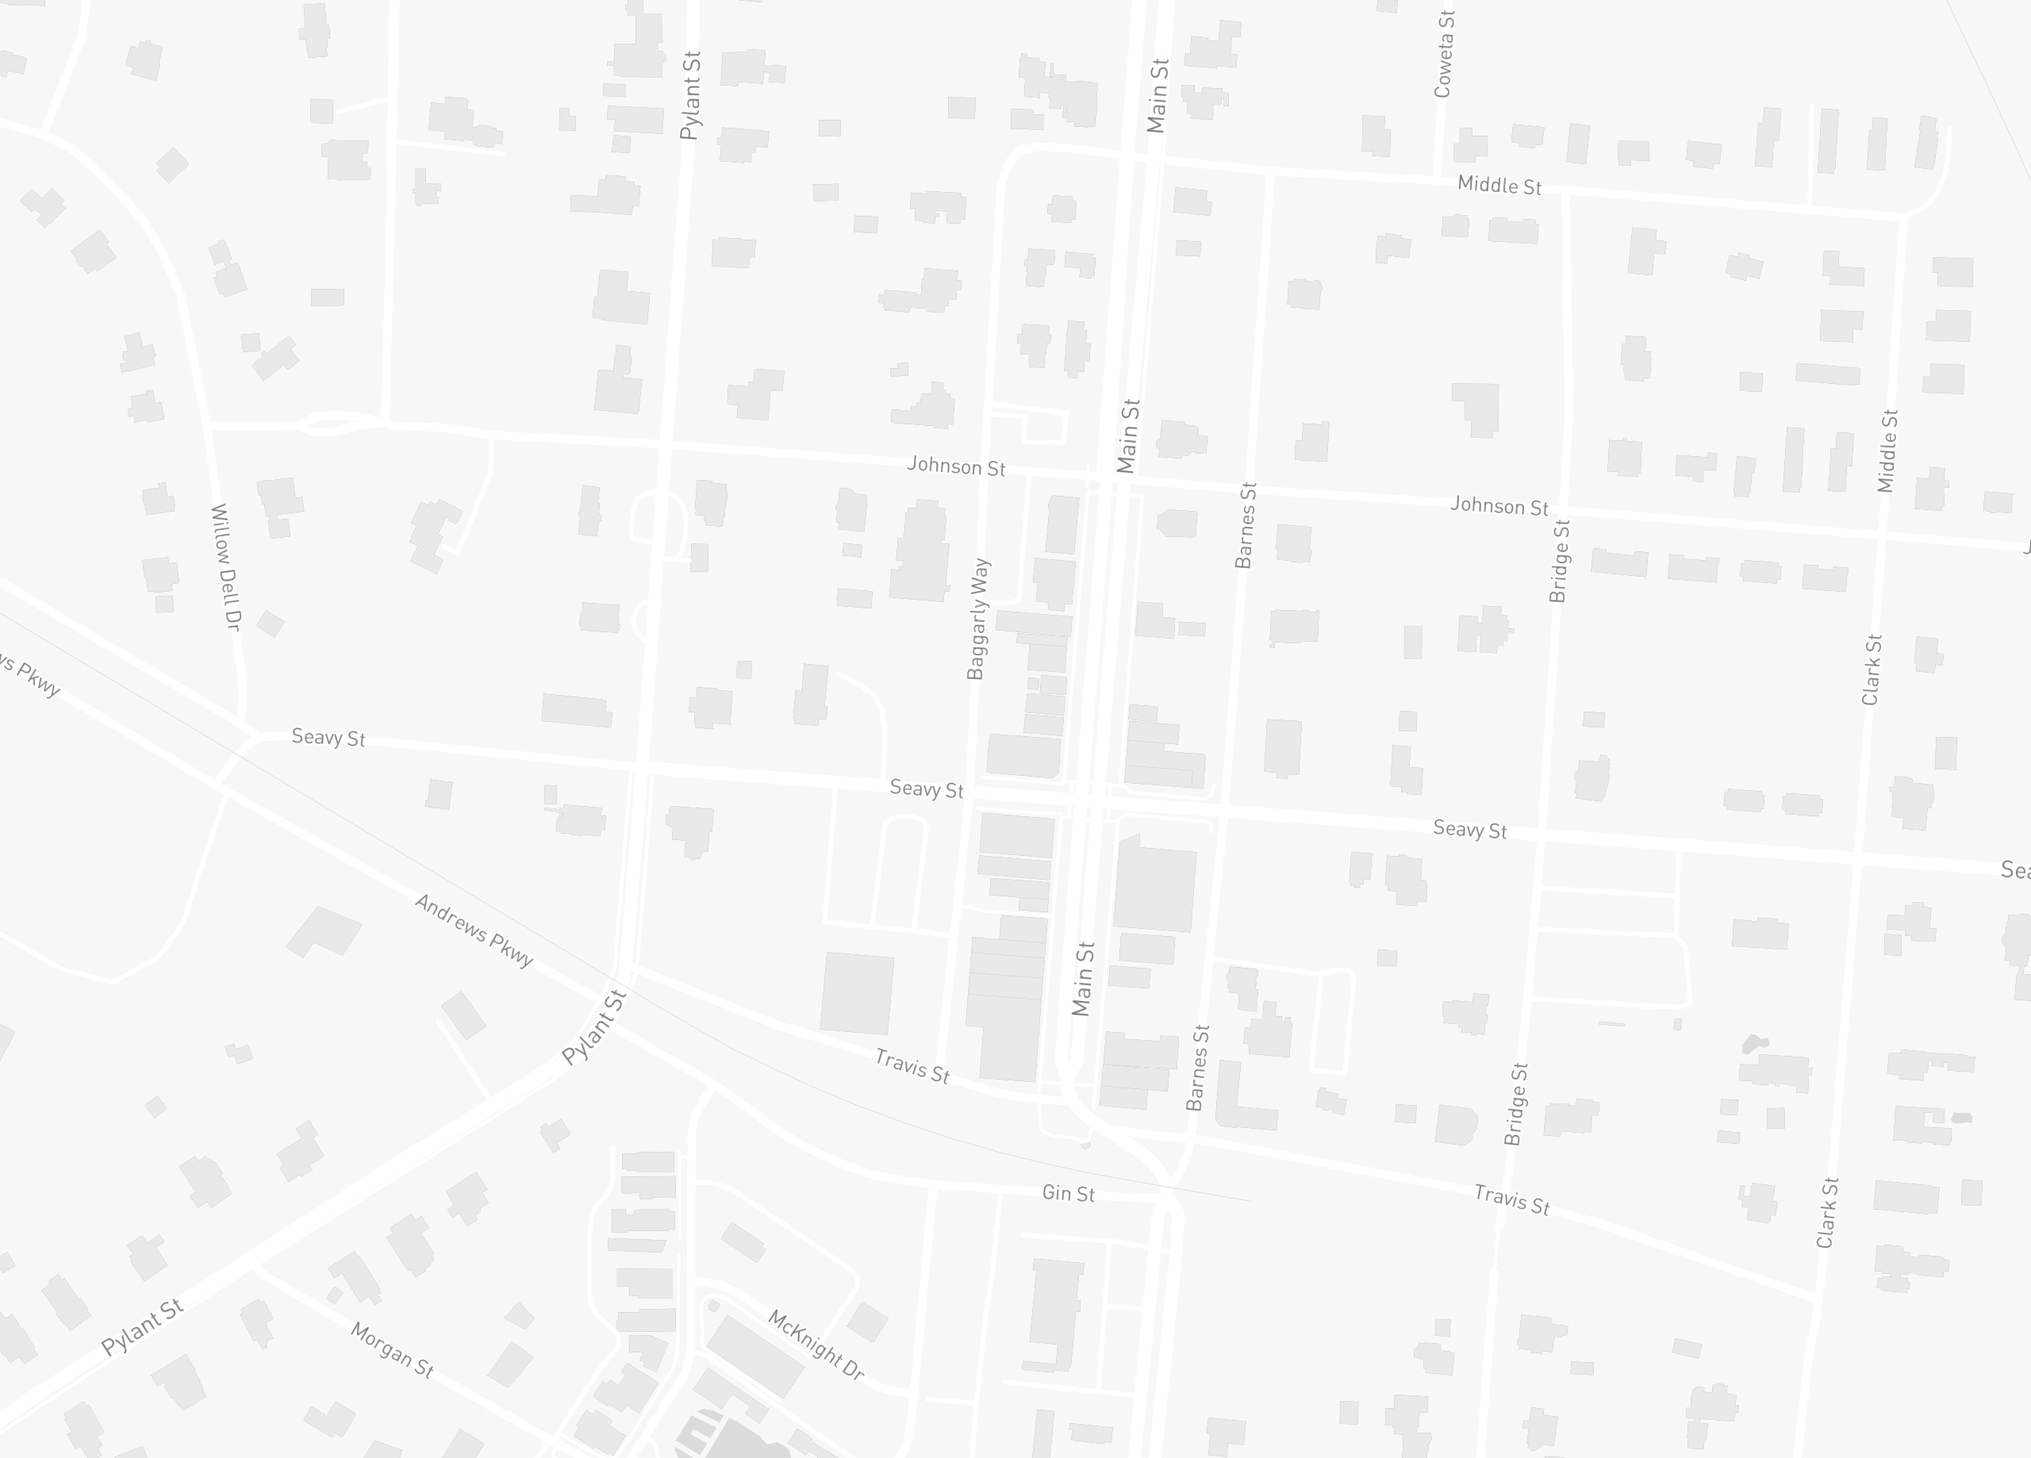
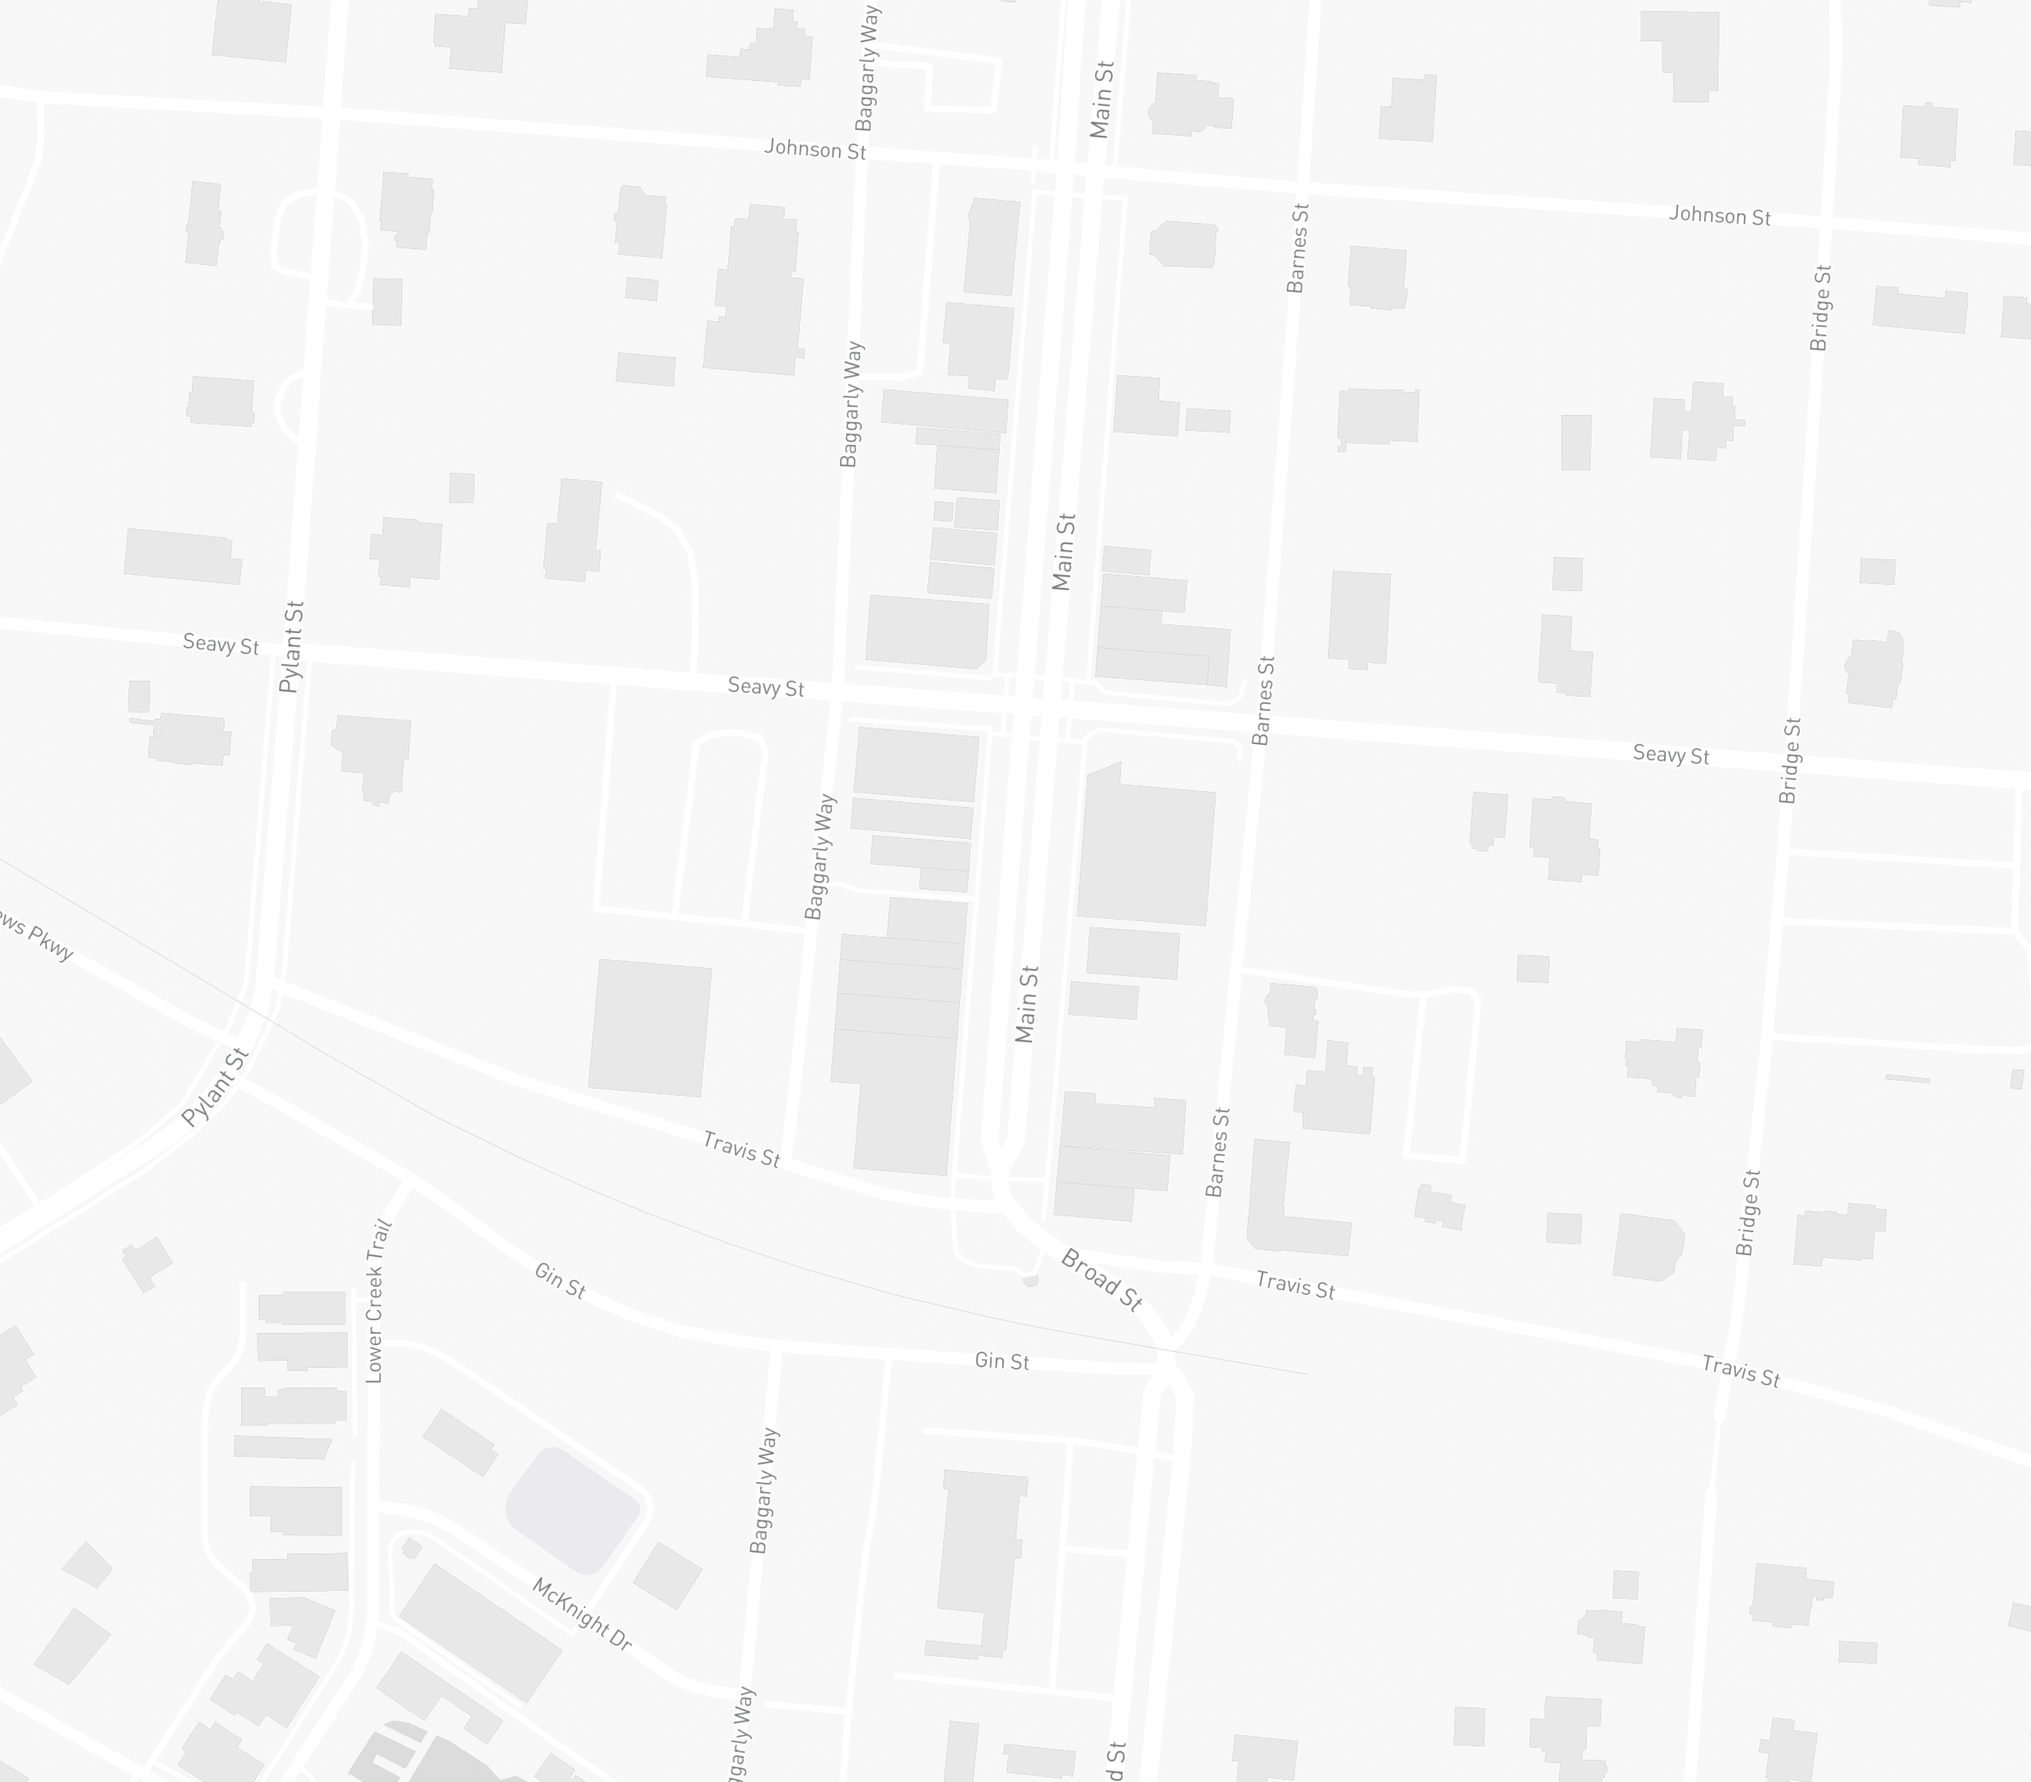
Split locations and schedule into tabs; crop the map to the venue
Two fixes to the same problem: with 30 locations, the schedule sat far below
the fold and 21 pins overlapped into a blob.

Tabs: the map stays pinned above a [Find Your Way | Schedule] tablist, so both
intents are one tap away and neither is buried. The map stays visible for both
because schedule entries link to their pin — clicking "Stage" from the schedule
centres the map without leaving the tab. Full ARIA tabs pattern with arrow-key
movement and roving tabindex. The active tab is in the URL (/map?view=schedule)
so signage can QR straight to the timeline, the same way ?poi= targets a pin.
Both panels still render in print, so the one-page handout is unchanged.

Map frame: the export covered ~930 x 667 m while the walkable venue is only
about a third of that, so every pin crowded into the middle of the image.
Re-cropped to 558 x 586 m. Pin spread goes from x 31-76 / y 33-90 to
x 14-88 / y 8.5-88, and the near-square frame suits a phone better.

Nothing was hand-adjusted to make this work — pins are derived from lat/lon
through BBOX, so re-cropping moved all 21 correctly on its own. The container
aspect ratio has to track the export, so that is now commented on both sides.

diff --git a/src/pages/EventMap.jsx b/src/pages/EventMap.jsx
@@ -50,6 +50,23 @@ export default function EventMap() {
     setSearchParams(next, { replace: true })
   }
 
+  // Which tab is showing also lives in the URL, so signage can QR straight to the
+  // schedule (/map?view=schedule) the same way it can QR to a single pin.
+  const view = searchParams.get('view') === 'schedule' ? 'schedule' : 'locations'
+  const setView = (v) => {
+    const next = new URLSearchParams(searchParams)
+    if (v === 'schedule') next.set('view', v)
+    else next.delete('view')
+    setSearchParams(next, { replace: true })
+  }
+
+  // Arrow-key movement between tabs, per the ARIA tabs pattern.
+  const onTabKey = (e) => {
+    if (e.key !== 'ArrowLeft' && e.key !== 'ArrowRight') return
+    e.preventDefault()
+    setView(view === 'locations' ? 'schedule' : 'locations')
+  }
+
   // Resolved against ALL pois, not just published ones. A confirmed schedule entry can
   // point at a location we haven't pinned down yet (registration is the live case): if we
   // looked only at published pois the link would silently vanish and the visitor would be
@@ -90,10 +107,6 @@ export default function EventMap() {
           happens. Spectator admission and parking are <strong>free</strong>.
         </p>
 
-        <h2 className="font-display text-2xl uppercase tracking-wide text-ink border-b-2 border-gold pb-2 mb-4">
-          Find Your Way
-        </h2>
-
         <MapCanvas
           pois={pois}
           categories={categories}
@@ -102,6 +115,46 @@ export default function EventMap() {
           onSelect={selectPoi}
         />
 
+        {/* Two intents, one page: "where is it" and "when is it". The map stays above
+            both because schedule entries link to their pin. */}
+        <div
+          role="tablist"
+          aria-label="Show day guide"
+          className="flex border-b-2 border-gold mb-6 print:hidden"
+        >
+          {[
+            { id: 'locations', label: 'Find Your Way' },
+            { id: 'schedule', label: 'Schedule' },
+          ].map((t) => {
+            const on = view === t.id
+            return (
+              <button
+                key={t.id}
+                role="tab"
+                id={`tab-${t.id}`}
+                aria-selected={on}
+                aria-controls={`panel-${t.id}`}
+                tabIndex={on ? 0 : -1}
+                onClick={() => setView(t.id)}
+                onKeyDown={onTabKey}
+                className={`min-h-11 px-5 font-display text-lg uppercase tracking-wide rounded-t-md transition-colors ${
+                  on
+                    ? 'bg-ink text-gold'
+                    : 'text-stone-600 hover:text-ink hover:bg-gold-pale/40'
+                }`}
+              >
+                {t.label}
+              </button>
+            )
+          })}
+        </div>
+
+        <div
+          role="tabpanel"
+          id="panel-locations"
+          aria-labelledby="tab-locations"
+          className={view === 'locations' ? '' : 'hidden print:block'}
+        >
         <div className="mb-6 print:hidden">
           <div className="flex flex-wrap gap-2" role="group" aria-label="Filter locations by type">
             {categories.map((c) => {
@@ -166,11 +219,19 @@ export default function EventMap() {
             </p>
           </div>
         )}
+        </div>
 
-        <h2 className="font-display text-2xl uppercase tracking-wide text-ink border-b-2 border-gold pb-2 mb-4 mt-10">
-          Show Day Schedule
-        </h2>
-        <ScheduleList schedule={scheduleWithPois} onSelectPoi={selectPoi} />
+        <div
+          role="tabpanel"
+          id="panel-schedule"
+          aria-labelledby="tab-schedule"
+          className={view === 'schedule' ? '' : 'hidden print:block'}
+        >
+          <h2 className="hidden print:block font-display text-2xl uppercase tracking-wide text-ink border-b-2 border-gold pb-2 mb-4 mt-10">
+            Show Day Schedule
+          </h2>
+          <ScheduleList schedule={scheduleWithPois} onSelectPoi={selectPoi} />
+        </div>
 
         <div className="bg-ink rounded-xl p-6 text-center mt-10 print:hidden">
           <p className="font-script text-gold text-2xl mb-2">

diff --git a/src/lib/venueGeo.js b/src/lib/venueGeo.js
@@ -6,8 +6,15 @@
 //
 //   STYLE=jermdwsahs/cmsnd0mkk017601qo0nsz6fpp
 //   curl -g -o /tmp/base.png \
-//     "https://api.mapbox.com/styles/v1/$STYLE/static/[-84.5595,33.2985,-84.5495,33.3045]/1280x919?access_token=$MB_TOKEN"
-//   cwebp -q 88 /tmp/base.png -o public/venue-base-2026-web.webp   # 503 kB -> 40 kB
+//     "https://api.mapbox.com/styles/v1/$STYLE/static/[-84.5572,33.29855,-84.5512,33.30295]/1280x1123?access_token=$MB_TOKEN"
+//   cwebp -q 88 /tmp/base.png -o public/venue-base-2026-web.webp   # 591 kB -> 37 kB
+//
+// The frame is cropped to the walkable venue (~558 x 586 m), not the wider area it
+// started as. A wider frame squeezed 21 pins into the middle third of the image where
+// they overlapped into a blob on a phone; cropping spreads them across the full width.
+// Remote parking is outside this frame on purpose — it gets addresses and directions
+// rather than pins, since zooming out far enough to include it shrinks the venue to
+// illegibility. Changing BBOX moves every pin automatically; nothing is hand-placed.
 //
 // The style is a classic Light with the `poi-label` layer deleted. Mapbox's stock
 // styles label every business and landmark — "Papp Clinic", "Peavy Gravesite" — which
@@ -21,7 +28,7 @@
 // Mapbox's terms require text attribution wherever this image is shown, on screen
 // and in print: "© Mapbox, © OpenStreetMap".
 
-export const BBOX = { west: -84.5595, south: 33.2985, east: -84.5495, north: 33.3045 }
+export const BBOX = { west: -84.5572, south: 33.29855, east: -84.5512, north: 33.30295 }
 
 export const ATTRIBUTION = '© Mapbox, © OpenStreetMap'
 

diff --git a/src/components/MapCanvas.jsx b/src/components/MapCanvas.jsx
@@ -99,7 +99,9 @@ export default function MapCanvas({ pois, categories, activeCategories, selected
     <figure className="mb-4">
       <div
         ref={containerRef}
-        className="relative overflow-hidden rounded-xl border border-stone-200 bg-white aspect-[1280/919]"
+        // Must match the exported image's aspect exactly, or object-cover crops it and
+        // every pin drifts off its street. Keep in step with BBOX in venueGeo.js.
+        className="relative overflow-hidden rounded-xl border border-stone-200 bg-white aspect-[1280/1123]"
       >
         <div ref={stageRef} className="relative w-full h-full origin-center">
           <img
